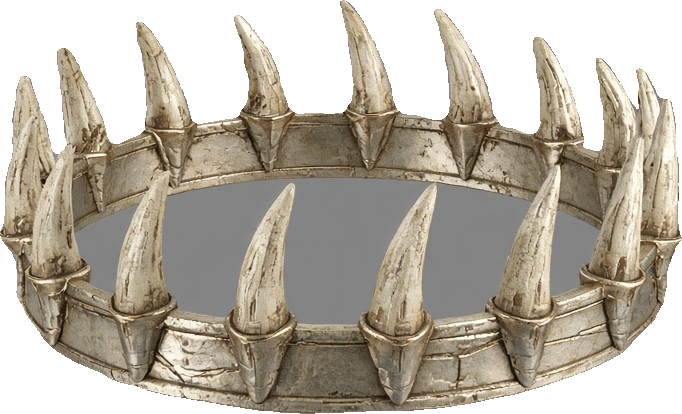
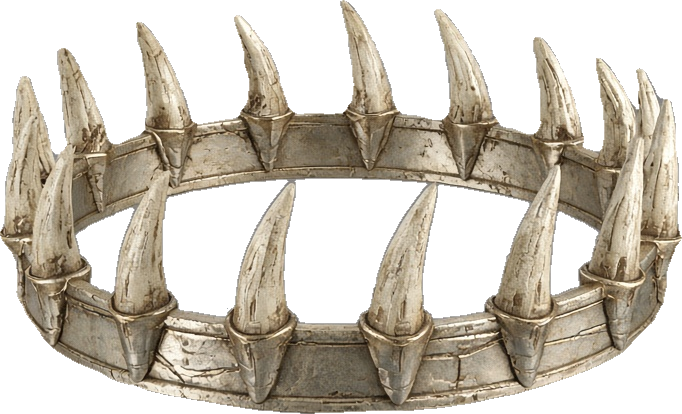
Open the bone-crown middle and bind ghost back-walk bodies.
The approved crown art keeps the same canvases and makes the open middle transparent. ASSET_VER 125 busts the cache. Screen-north ghost walks were planting the idle back for both gait halves because back_w1/back_w2 failed the living-color gate; Orbo's idle back is a see-through outline. Those walk cells already hold full bodies, so the north cycle uses them as painted.

diff --git a/index.html b/index.html
@@ -436,7 +436,7 @@ const FONT_QUOTE='"Cormorant Garamond",Palatino,Georgia,serif';
 
 /* ---------------------------- painted sprites (Baldur's Gate isometric) ---------------------------- */
 const SPR={};
-const ASSET_VER='124';
+const ASSET_VER='125';
 let SPLASH_STATE='loading';
 function assetUrl(src){
   const u=src+(src.indexOf('?')>=0?'&':'?')+'v='+ASSET_VER;
@@ -1544,12 +1544,22 @@ function nickSpectralGhostSheet(img){
     ||img===SPR.orbo_ghost_w1||img===SPR.orbo_ghost_w2
     ||img===SPR.talpor_ghost_w1||img===SPR.talpor_ghost_w2;
 }
+function paintedGhostBackWalk(img){
+  if(!img) return false;
+  return img===SPR.pordoom_ghost_back_w1||img===SPR.pordoom_ghost_back_w2
+    ||img===SPR.fendur_ghost_back_w1||img===SPR.fendur_ghost_back_w2
+    ||img===SPR.orbo_ghost_back_w1||img===SPR.orbo_ghost_back_w2
+    ||img===SPR.talpor_ghost_back_w1||img===SPR.talpor_ghost_back_w2;
+}
 function solidDwarfSprite(e,img){
   if(!img||!img.width) return img;
   if(!e||e.kind!=='dwarf'||e.dead||e.crushed||e.team!=='party') return img;
   if(e.ghost){
     if(img===SPR.talpor_ghost) return colorizeTalporStanding(img);
     if(nickSpectralGhostSheet(img)) return img;
+    /* North walk plants are already icy cyan and fully filled. Lifting
+       them would recolor a body that is already the front-walk family. */
+    if(paintedGhostBackWalk(img)) return img;
     return liftGhostSpirit(img);
   }
   return blitLivingMacar(img)||img;
@@ -2120,6 +2130,10 @@ function partyGhostKeyReady(key, idleKey){
   /* Brown back is narrower than idle, so the family match would plant
      the teal idle and never lift the back sheet. */
   if(talporInterimGhostKey(key)) return true;
+  /* Screen-north walk. back_w1/back_w2 hold a full body. Rejecting them
+     planted the idle back for both gait halves, and Orbo's idle back is
+     an outline (see-through torso). Compass and w3 still fail below. */
+  if(/_ghost_back_w[12]$/.test(key||'')) return true;
   if(!sheetLivingColors(img, key)) return false;
   if(matchingPartyAtkReady(key, idleKey)) return true;
   /* Nick-GOOD front walk is this kin's own sheet. Stride and weapon

diff --git a/src/systems/Interaction.test.js b/src/systems/Interaction.test.js
@@ -37,7 +37,7 @@ assert(SR.SHIPPED.indexOf('Interaction')>=0 && SR.SHIPPED.indexOf('Discovery')>=
 assert(/src="src\/systems\/Interaction\.js"/.test(html),
   'Interaction is a classic sync tag');
 assert(!/type\s*=\s*["']module["']/.test(html), 'index.html still has no type=module');
-assert(/ASSET_VER='124'/.test(html), 'ASSET_VER is 117');
+assert(/ASSET_VER='125'/.test(html), 'ASSET_VER is 117');
 assert(/function tryFindSecret\(p, mode\)\{/.test(html) &&
   /key==='search'/.test(html) && /key==='secret'/.test(html),
   'dual SEARCH (F herbs / T doors) is unchanged');
@@ -388,7 +388,7 @@ assert(/if\(typeof Interaction!=='undefined' && Interaction\.isProtectedCell/.te
 assert(/breakRock\(L,i,j\)/.test(html) && /function breakRock\(L,i,j\)\{/.test(html),
   'host breakRock remains the destruction path');
 assert(/function openSecret\(sec\)\{/.test(html), 'host openSecret remains the secret path');
-assert(/ASSET_VER='124'/.test(html) && !/ASSET_VER='115'/.test(html), 'ASSET_VER is 117 — remat Talpor idle bw=344 (Nick CALL)');
+assert(/ASSET_VER='125'/.test(html) && !/ASSET_VER='115'/.test(html), 'ASSET_VER is 117 — remat Talpor idle bw=344 (Nick CALL)');
 
 if(failed){ console.error('\n'+failed+' failed'); process.exit(1); }
 console.log('\ninteraction checks passed');

diff --git a/src/saves/GameSave.test.js b/src/saves/GameSave.test.js
@@ -69,7 +69,7 @@ assert(/Save game/.test(html) && /function writeGameSave\(/.test(html), 'pause c
 }
 assert(/GameSave\.captureWorld/.test(html) && /GameSave\.applyWorld/.test(html), 'play save uses the versioned world schema');
 assert(/remakeSavedEnt/.test(html) && /restoreSavedEid/.test(html), 'load remakes ents and restores numeric EIDs');
-assert(!/ASSET_VER='100'/.test(html) && !/ASSET_VER='101'/.test(html) && !/ASSET_VER='102'/.test(html) && /ASSET_VER='124'/.test(html), 'ASSET_VER is 117');
+assert(!/ASSET_VER='100'/.test(html) && !/ASSET_VER='101'/.test(html) && !/ASSET_VER='102'/.test(html) && /ASSET_VER='125'/.test(html), 'ASSET_VER is 117');
 assert(/G\.scene==='camp'/.test(html) && /drawHint\(g,UIS\)/.test(html), 'camp draws the Saved toast');
 assert(/Continue/.test(html) && /function loadSavedGame\(/.test(html), 'title can continue a save');
 assert(/G\._keepProgress/.test(html) && /G\._forceSeeds/.test(html), 'load keeps campaign and dungeon seeds');

diff --git a/src/ui/Ch1RubbleLoad.test.js b/src/ui/Ch1RubbleLoad.test.js
@@ -45,7 +45,7 @@ assert(!/else if\(okTex\)\{/.test(html),
   'generated TEX diamonds are not a first-frame floor/wall fallback');
 assert(/tile_floor_mine\.png\?v=60/.test(html) && /tile_wall_worked\.png\?v=60/.test(html),
   'mine floor and worked wall are preloaded before first present');
-assert(/ASSET_VER='124'/.test(html), 'asset cache-bust is 117 — remat Talpor idle bw=344 (Nick CALL)');
+assert(/ASSET_VER='125'/.test(html), 'asset cache-bust is 117 — remat Talpor idle bw=344 (Nick CALL)');
 assert(/function scatterBurialRubble\(/.test(html) && /fallen:1/.test(html) && /k:'dust'/.test(html),
   'cave-in entry scatters extra timber, stone, and dust around the burial');
 assert(!/s:0\.55,seed:s\.seed\+40/.test(html) && !/s:0\.48,seed:s\.seed\+51/.test(html),

diff --git a/src/systems/PartyOrders.test.js b/src/systems/PartyOrders.test.js
@@ -278,7 +278,7 @@ assert(rooted.moving===0 && rooted.atk===0 && rooted.x===3 && !rooted.aim,
 
 /* ---- host wiring ---- */
 assert(/src="src\/systems\/PartyOrders\.js"/.test(html), 'index includes PartyOrders.js');
-assert(/ASSET_VER='124'/.test(html) && !/ASSET_VER='115'/.test(html), 'ASSET_VER is 121 — remat Talpor idle bw=344 (Nick CALL)');
+assert(/ASSET_VER='125'/.test(html) && !/ASSET_VER='115'/.test(html), 'ASSET_VER is 121 — remat Talpor idle bw=344 (Nick CALL)');
 /* 2026-09-26: the Hold / Regroup / Focus HUD was removed (mobile clutter).
    The module stays for its logic tests; play switches it off. */
 assert(!/key:'hold'/.test(html) && !/key:'regroup'/.test(html) && !/key:'focus'/.test(html),

diff --git a/src/ui/EquipCompare.test.js b/src/ui/EquipCompare.test.js
@@ -70,7 +70,7 @@ assert(SR.has('EquipCompare') && SR.get('EquipCompare')===EC,
 assert(SR.SHIPPED.indexOf('EquipCompare')>=0, 'EquipCompare is a shipped optional module');
 assert(SR.SHIPPED.indexOf('DerivedStats')>=0, 'DerivedStats is a shipped optional module');
 assert(!/type\s*=\s*["']module["']/.test(html), 'index.html still has no type=module');
-assert(/ASSET_VER='124'/.test(html), 'ASSET_VER is 117');
+assert(/ASSET_VER='125'/.test(html), 'ASSET_VER is 117');
 assert(!/ASSET_VER='100'/.test(html) && !/ASSET_VER='101'/.test(html) && !/ASSET_VER='102'/.test(html), 'ASSET_VER is not leftover 100/101/102');
 assert(/src="src\/combat\/DerivedStats\.js"/.test(html),
   'DerivedStats is a classic sync tag');

diff --git a/src/ui/Ch1StartLoadout.test.js b/src/ui/Ch1StartLoadout.test.js
@@ -53,7 +53,7 @@ assert(/if\(r\.key==='macar'\) ensureMacarStartingGear\(pk\)/.test(html),
   'ensurePacks wears the starting kit on Macar');
 assert(/livingMacarIdleKey/.test(html) && /wieldsShadowCleaver/.test(html),
   'maul idle is the default; Cleaver is an equip swap');
-assert(/ASSET_VER='124'/.test(html),
+assert(/ASSET_VER='125'/.test(html),
   'ASSET_VER is 117 — remat Talpor idle bw=344 (Nick CALL)');
 assert(/Interaction\.installChapterI/.test(html)
   && /if \(L\.n === 1 && i < 14\) return true/.test(fs.readFileSync(path.join(root,'src/systems/Interaction.js'),'utf8')),

diff --git a/src/dungeon/Ch1TeethCrown.test.js b/src/dungeon/Ch1TeethCrown.test.js
@@ -63,7 +63,7 @@ assert(/one thrall at a time/.test(html) && /Once per corpse/.test(html),
   'HOUSE law is one thrall, once per corpse');
 assert(/follow \/ fight nearest foe \/ stay/.test(html),
   'thrall commands are follow, fight nearest foe, stay');
-assert(/ASSET_VER='124'/.test(html) && !/ASSET_VER='115'/.test(html),
+assert(/ASSET_VER='125'/.test(html) && !/ASSET_VER='115'/.test(html),
   'ASSET_VER is 117 — remat Talpor idle bw=344 (Nick CALL)');
 assert(/bone_crown:'assets\/props\/prop_bone_crown\.png'/.test(html),
   'bone_crown is registered to the painted prop');

diff --git a/src/systems/EnemyIntent.test.js b/src/systems/EnemyIntent.test.js
@@ -62,7 +62,7 @@ assert(/function applyEnemyIntent\(/.test(html) && /function intentHost\(/.test(
   'host applies intent through existing steerWalk / atk machinery');
 assert(/EnemyIntent\.decide\(e, dt, intentHost\(\)\)/.test(html),
   'only the foe decision branch consults EnemyIntent');
-assert(/ASSET_VER='124'/.test(html), 'ASSET_VER is 117');
+assert(/ASSET_VER='125'/.test(html), 'ASSET_VER is 117');
 
 const head=html.slice(0, html.indexOf('<script>\n"use strict";'));
 const navI=head.indexOf('src="src/systems/Navigation.js"');

diff --git a/src/systems/Navigation.test.js b/src/systems/Navigation.test.js
@@ -92,7 +92,7 @@ assert(/bumpTopology\('openSecret/.test(html) && /bumpTopology\('breakRock'\)/.t
   'openSecret and breakRock invalidate nav topology');
 assert(/G\.topologyRev=0/.test(html) && /G\.seenRev=\(G\.seenRev\|\|0\)\+1/.test(html),
   'chapter reset clears topologyRev; breakRock still bumps seenRev separately');
-assert(/ASSET_VER='124'/.test(html), 'ASSET_VER is 117');
+assert(/ASSET_VER='125'/.test(html), 'ASSET_VER is 117');
 
 /* ---- real Macar canBe / walk / wallFaceClear ---- */
 function makeGrid(w, h, fill){

diff --git a/src/dungeon/TeethRoomDialogue.test.js b/src/dungeon/TeethRoomDialogue.test.js
@@ -25,7 +25,7 @@ function extractFn(name){
   throw new Error('unclosed '+name);
 }
 
-assert(/ASSET_VER='124'/.test(html) && !/ASSET_VER='115'/.test(html) && !/ASSET_VER='116'/.test(html),
+assert(/ASSET_VER='125'/.test(html) && !/ASSET_VER='115'/.test(html) && !/ASSET_VER='116'/.test(html),
   'ASSET_VER is 117');
 assert(!/G\.scene='intro'/.test(html), 'new descent does not open the chapter intro');
 assert(/function drawIntro\(g\)\{/.test(html), 'drawIntro remains in source but is not the player gate');

diff --git a/src/systems/Discovery.test.js b/src/systems/Discovery.test.js
@@ -32,7 +32,7 @@ assert(SR.has('Discovery') && SR.get('Discovery')===D,
 assert(/src="src\/systems\/Discovery\.js"/.test(html),
   'Discovery is a classic sync tag');
 assert(!/type\s*=\s*["']module["']/.test(html), 'index.html still has no type=module');
-assert(/ASSET_VER='124'/.test(html), 'ASSET_VER is 117');
+assert(/ASSET_VER='125'/.test(html), 'ASSET_VER is 117');
 
 D.reset();
 assert(D.note('not-an-id','seen')===null, 'malformed id is rejected');
